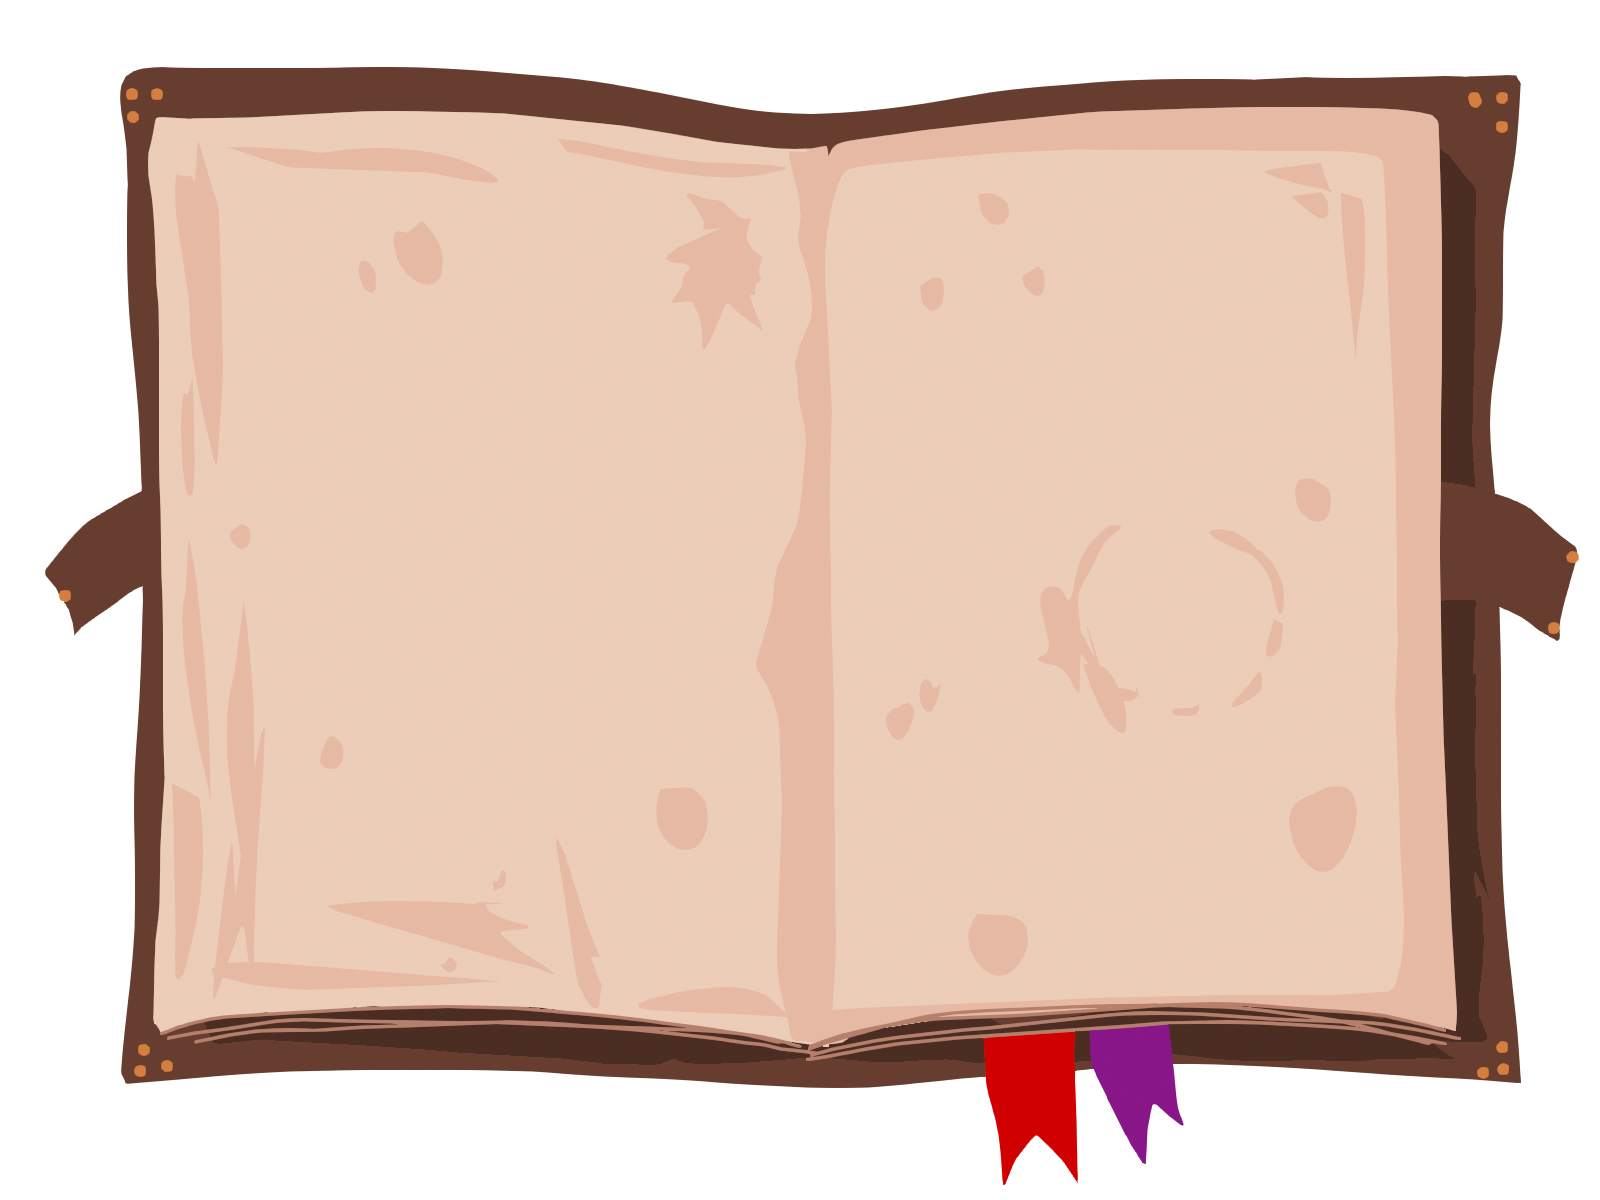
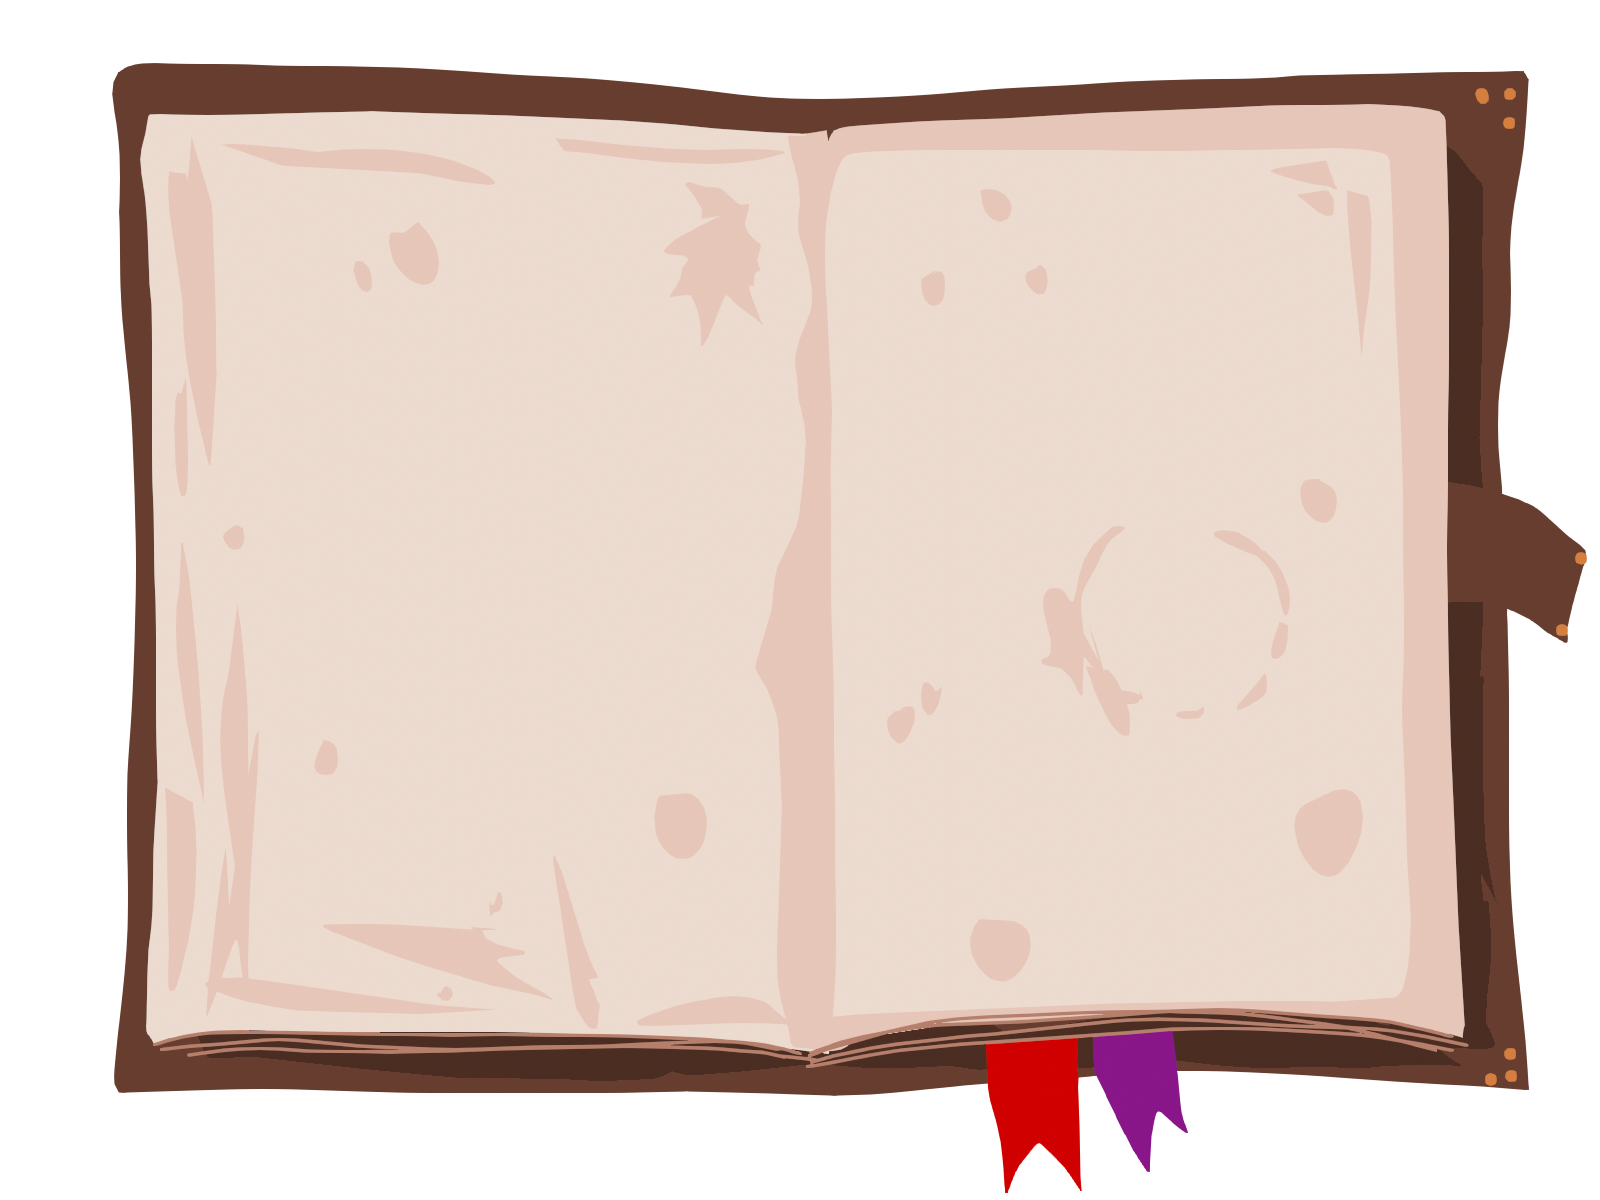
home button

diff --git a/src/home.ts b/src/home.ts
@@ -4,6 +4,7 @@ import { sound } from "@pixi/sound";
 import { Chat } from "./chat";
 import { BagOStuff, CookingPot } from "./cooking";
 import { TimeManager } from "./timeManager";
+import type { IDestroyable } from "./scene";
 
 export class Home {
     bgSprite: Sprite;
@@ -26,13 +27,13 @@ export class Home {
     }
 
     mouseMove(e: FederatedPointerEvent) {
-        if(Chat.isInChat) return;
+        if (Chat.isInChat) return;
         const doorDist = 500;
         const doorWidth = 250;
         const doorHeight = 700;
-        const ritualRect = new Rectangle(-doorWidth/2, -doorHeight/2, doorWidth, doorHeight);
-        const crystalBallRect = new Rectangle(-doorWidth/2 - doorDist, -doorHeight/2, doorWidth, doorHeight);
-        const alchemyRect = new Rectangle(-doorWidth/2 + doorDist, -doorHeight/2, doorWidth, doorHeight);
+        const ritualRect = new Rectangle(-doorWidth / 2, -doorHeight / 2, doorWidth, doorHeight);
+        const crystalBallRect = new Rectangle(-doorWidth / 2 - doorDist, -doorHeight / 2, doorWidth, doorHeight);
+        const alchemyRect = new Rectangle(-doorWidth / 2 + doorDist, -doorHeight / 2, doorWidth, doorHeight);
         const localPos = e.getLocalPosition(this.bgSprite);
 
         //this.graphics.clear();
@@ -64,19 +65,19 @@ export class Home {
 
     setBg(number: 1 | 2 | 3 | 4 = 1) {
         this.bgSprite.texture = Assets.get("home-000" + number);
-        if(this.currentNumber !== number) {
-            if(number > 1) {
-                sound.play("sfx-door_open",{volume:0.4});
+        if (this.currentNumber !== number) {
+            if (number > 1) {
+                sound.play("sfx-door_open", { volume: 0.4 });
             }
             else {
-                sound.play("sfx-door_close",{volume:0.2});
+                sound.play("sfx-door_close", { volume: 0.2 });
             }
             this.currentNumber = number;
         }
     }
 
-    click(){
-        if(this.currentNumber === 4) {
+    click() {
+        if (this.currentNumber === 4) {
             new CookingPot();
             new BagOStuff();
             this.destroy();
@@ -95,4 +96,21 @@ export class Home {
         game.app.stage.removeChild(this.bgSprite);
         this.bgSprite.destroy();
     }
+}
+
+export function createHomeSign(destroyable: IDestroyable, className?: string) {
+    const homeSign = new Image();
+    homeSign.src = "img/home_sign.png";
+    document.body.appendChild(homeSign);
+    homeSign.classList.add("home-sign");
+    if (className) homeSign.classList.add(className);
+
+    homeSign.addEventListener("mouseenter", () => sound.play("sfx-door_open", { volume: 0.4, singleInstance: true }));
+    homeSign.addEventListener("mouseleave", () => sound.play("sfx-door_close", { volume: 0.4, singleInstance: true }));
+    homeSign.addEventListener("click", () => {
+        destroyable.destroy();
+        new Home()
+    });
+
+    return homeSign;
 }

diff --git a/src/notebook.ts b/src/notebook.ts
@@ -69,7 +69,7 @@ export class Fact {
 export class Notebook {
     facts = new Set<Fact>();
     container = new Container();
-
+    notebookBG:HTMLImageElement;
     notebookDiv: HTMLDivElement;
     notebookContentsDiv: HTMLDivElement;
     pageLeftWrapper: HTMLDivElement;
@@ -81,6 +81,7 @@ export class Notebook {
         return this._open;
     }
     public set open(value) {
+        this.notebookBG.src = value ? "img/notebook.png" : "img/notebook_closed.png";
         this.notebookDiv.classList.toggle('open', value);
         if (this._open != value) {
             this.generateBook();
@@ -90,14 +91,6 @@ export class Notebook {
         this._open = value;
     }
 
-    add(fact: Fact) {
-        if (!this.facts.has(fact) && fact.type !== FactType.misc) sound.play("sfx-write_fact", { singleInstance: true, volume: .2, filters: [new filters.StereoFilter(.5)] });
-        this.facts.add(fact);
-        this.generateBook();
-
-        const crystalBall = scene.getFirst<CrystalBall>(CrystalBall)!;
-        if (crystalBall) crystalBall.render();
-    }
 
 
     constructor() {
@@ -110,6 +103,10 @@ export class Notebook {
         this.notebookDiv = customDiv(document.body, '', 'notebook-wrapper');
         this.notebookDiv.addEventListener("mouseenter", () => this.open = true);
         this.notebookDiv.addEventListener("mouseleave", () => this.open = false);
+        this.notebookBG = document.createElement('img');
+        this.notebookBG.src = "img/notebook_closed.png";
+        this.notebookBG.classList.add('notebook-bg');
+        this.notebookDiv.appendChild(this.notebookBG);
         this.notebookContentsDiv = customDiv(this.notebookDiv, '', 'notebook-contents');
         this.pageLeftWrapper = customDiv(this.notebookContentsDiv, '', 'notebook-page-wrapper');
         this.pageLeftWrapper.addEventListener("click", () => this.movePage(-2));
@@ -117,6 +114,16 @@ export class Notebook {
         this.pageRightWrapper.addEventListener("click", () => this.movePage(2));
         this.generateBook();
         this.render();
+    }
+
+    
+    add(fact: Fact) {
+        if (!this.facts.has(fact) && fact.type !== FactType.misc) sound.play("sfx-write_fact", { singleInstance: true, volume: .2, filters: [new filters.StereoFilter(.5)] });
+        this.facts.add(fact);
+        this.generateBook();
+
+        const crystalBall = scene.getFirst<CrystalBall>(CrystalBall)!;
+        if (crystalBall) crystalBall.render();
     }
 
     generateBook() {

diff --git a/src/cooking.ts b/src/cooking.ts
@@ -6,6 +6,7 @@ import { pickRandom, randomRange } from "./utils";
 import { Inventory, ItemType } from "./inventory";
 import { sound } from "@pixi/sound";
 import type { IDestroyable } from "./scene";
+import { createHomeSign } from "./home";
 
 
 export type Recipe = Array<{
@@ -21,7 +22,10 @@ const smoke = [
     0x111111
 ]
 
-export class CookingPot {
+
+
+export class CookingPot implements IUpdatable, IDestroyable {
+    homeSign: HTMLImageElement;
     particleContainer: Container;
     bgSprite: Sprite;
     sprite: Sprite;
@@ -45,6 +49,8 @@ export class CookingPot {
     }
 
     constructor() {
+        this.homeSign = createHomeSign(this, "cooking");
+
 
         this.bgSprite = new Sprite(Assets.get("alchemy-0001"));
         this.bgSprite.anchor.set(0.5);
@@ -148,8 +154,8 @@ export class CookingPot {
         this.sprite.skew.x = Math.sin(this.temperature * 25) / 10;
         this.sprite.scale.y = 1 - Math.sin(this.temperature * 50) / 10;
 
-        this.sprite.x = randomRange(-1, 1) * (this.currentRecipe.length > 0 ? 2 : 0);
-        this.sprite.y = randomRange(-1, 1) * (this.currentRecipe.length > 0 ? 2 : 0);
+        //this.sprite.x = randomRange(-1, 1) * (this.currentRecipe.length > 0 ? 2 : 0);
+        //this.sprite.y = randomRange(-1, 1) * (this.currentRecipe.length > 0 ? 2 : 0);
 
         this.frontSprite.skew.x = this.sprite.skew.x;
         this.frontSprite.scale.y = this.sprite.scale.y;
@@ -177,6 +183,7 @@ export class CookingPot {
         game.scene.remove(CookingPot, this);
         game.removeUpdatable(UpdateOrder.cooking, this);
         this.sprite.destroy();
+        this.homeSign.remove();
     }
 }
 

diff --git a/src/style/notebook.css b/src/style/notebook.css
@@ -5,26 +5,26 @@
 
 .notebook-wrapper {
     font-family: 'Caveat';
-    font-size: 24px;
+    font-size: 28px;
     color: black;
     user-select: none;
     position: absolute;
     top: 0;
     right: 0;
-    width: 65vh;
-    height: 50vh;
+    height: 22em;
     z-index: 2;
-    background-image: url("img/notebook_closed.png");
     background-size: contain;
     background-position: center;
     background-repeat: no-repeat;
     overflow: hidden;
-    padding: 7vh 7vh 8vh 7vh;
     box-sizing: border-box;
 }
 
-.notebook-wrapper.open {
-    background-image: url("img/notebook.png");
+.notebook-bg {
+    height: 100%;
+    position: relative;
+    top: 0;
+    right: 0;
 }
 
 .notebook-wrapper:not(.open) .notebook-contents {
@@ -32,8 +32,12 @@
 }
 
 .notebook-contents {
+    position: absolute;
+    top: 0;
+    left: 0;
     width: 100%;
     height: 100%;
+    padding: 2.8em 3em 3em 3em;
     display: flex;
 }
 
@@ -52,7 +56,7 @@
     width: 100%;
     height: 100%;
     line-height: .8em;
-    padding: .5em;
+    padding: .9em;
 }
 
 .notebook-page.hidden {

diff --git a/src/style/style.css b/src/style/style.css
@@ -19,3 +19,17 @@ body {
     background-size: cover;
     background-position: center;
 }
+
+.home-sign {
+    position: absolute;
+    top:0;
+    left:0;
+    width: 500px;
+    transform: translateY(-30px);
+}
+
+.home-sign:hover {
+    cursor: pointer;
+    transform: rotate(-5deg) translateY(-10px);
+    filter: brightness(1.8);
+}
